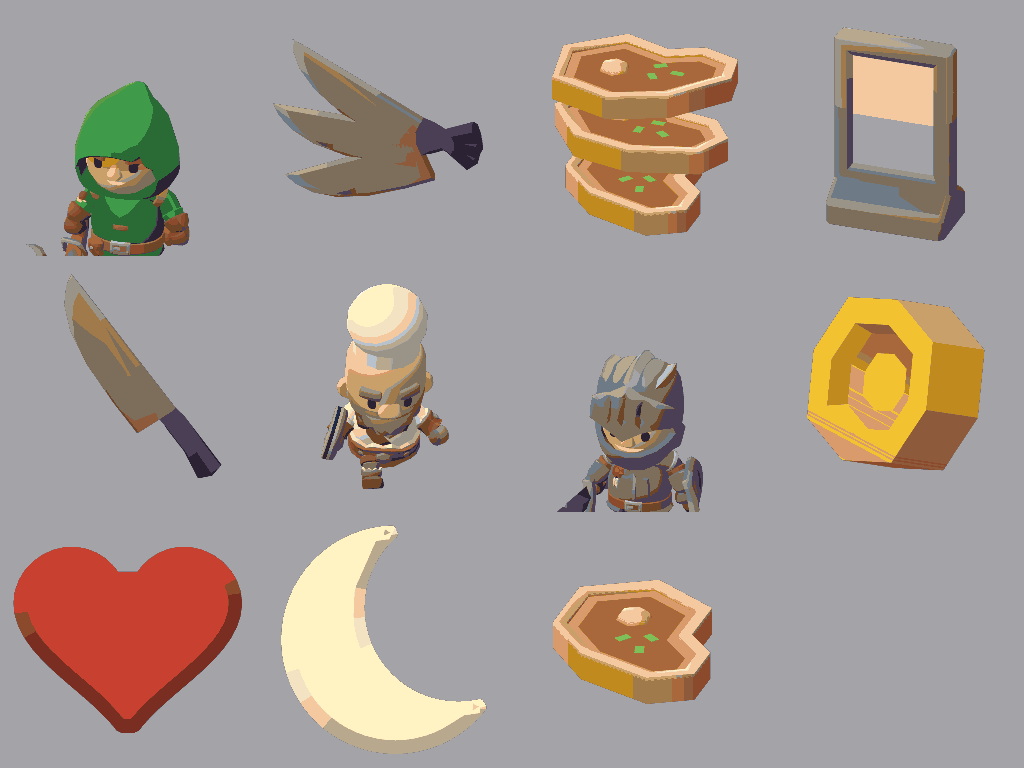
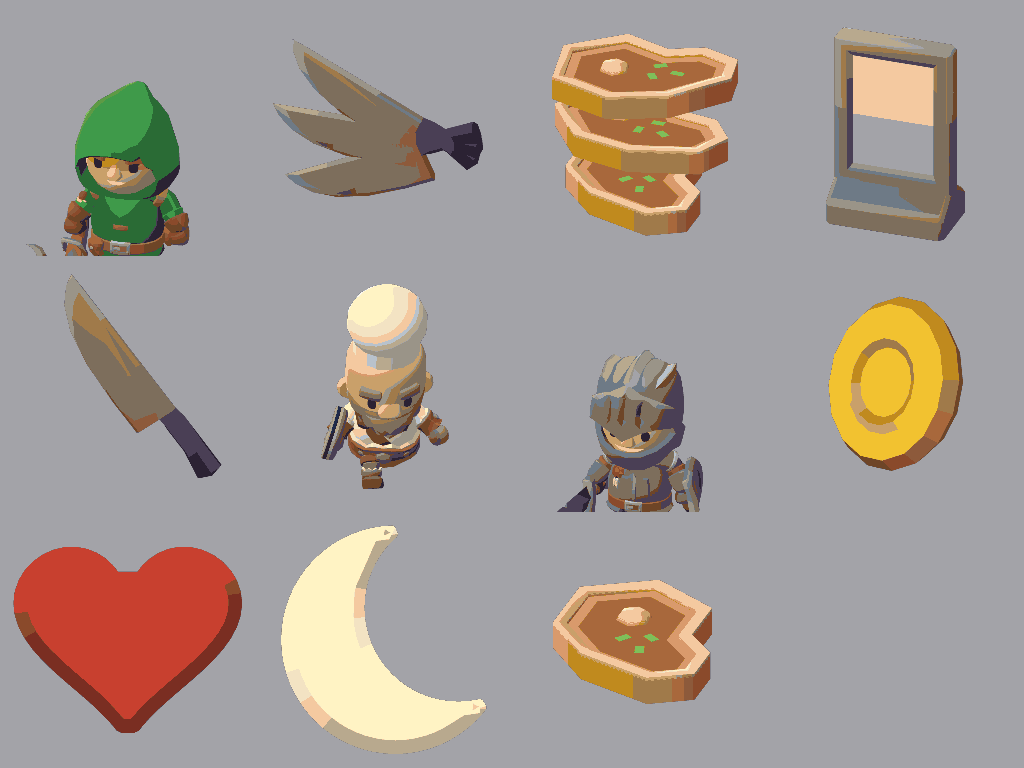
feat(s4): procedural gold coin replaces the Kenney platformer coin (Task 15)
CoinMesh: bevelled 16-segment disc with an embossed ring, gold/gold_dark vertex colours, one surface, 288 triangles.
Used by coin.tscn (fly FX), PileMesh and the coin icon. Removes assets/kenney-platformer, its licence row, remap
entry (COIN_RIM_TO_GOLD), atlas and material.

Claude-Session: https://claude.ai/code/session_019nNyHrXgHzKVKBtdqy9Hez

Changed region(s): [[0.7812, 0.375, 0.9688, 0.625]]

diff --git a/docs/ASSET_LICENSES.md b/docs/ASSET_LICENSES.md
@@ -11,7 +11,6 @@ including `LICENSE.txt`. `tools/asset_validator.gd` checks the rows against disk
 | Kenney Fantasy Town Kit | assets/kenney-fantasy-town/ | https://kenney.nl/assets/fantasy-town-kit | CC0 1.0 | 2026-10-01 | fb8e4817197ef9f62215e95b4451a0f09c769c8e03e416e3a2ce108dfa6117e4 | 9 |
 | Kenney City Kit (Commercial) | assets/kenney-city-commercial/ | https://kenney.nl/assets/city-kit-commercial | CC0 1.0 | 2026-10-01 | c38cee408d022e57e44e49f1cd655c2fe0dc881a07b881276b795215cdc0de69 | 3 |
 | Kenney Food Kit | assets/kenney-food/ | https://kenney.nl/assets/food-kit | CC0 1.0 | 2026-10-01 | 32a081c2035dd4db47d850c83244da048165f0e53d71c076b76c1afc0590bc7f | 4 |
-| Kenney Platformer Kit | assets/kenney-platformer/ | https://kenney.nl/assets/platformer-kit | CC0 1.0 | 2026-10-01 | e1185354d8f0f055c325c7204602326c8cf0c47ee5ae1db7ed16f0465b91bb9a | 3 |
 | KayKit Character Pack: Adventurers 1.0 | assets/kaykit-adventurers/ | https://github.com/KayKit-Game-Assets/KayKit-Character-Pack-Adventures-1.0 | CC0 1.0 | 2026-10-01 | ae322141814056dda0deea7540d74c41d87aee1da319977cd1bd84ee5a923629 | 25 |
 | KayKit Restaurant Bits 1.0 | assets/kaykit-restaurant/ | https://github.com/KayKit-Game-Assets/KayKit-Restaurant-Bits-1.0 | CC0 1.0 | 2026-10-01 | 4da4ad3a3face68a71c11c8adc8e93017fdeb8fd67fcb0ca8286bd9c3dbbf674 | 14 |
 
@@ -28,3 +27,4 @@ including `LICENSE.txt`. `tools/asset_validator.gd` checks the rows against disk
 | Palette | `art/palette/` | CC0 (original) |
 | Procedural Boar | `art/boar/` | CC0 (original) |
 | Rendered icons | `art/icons/` | CC0 (original) |
+| Procedural coin | `art/pickups/coin_mesh.gd` | CC0 (original) |
